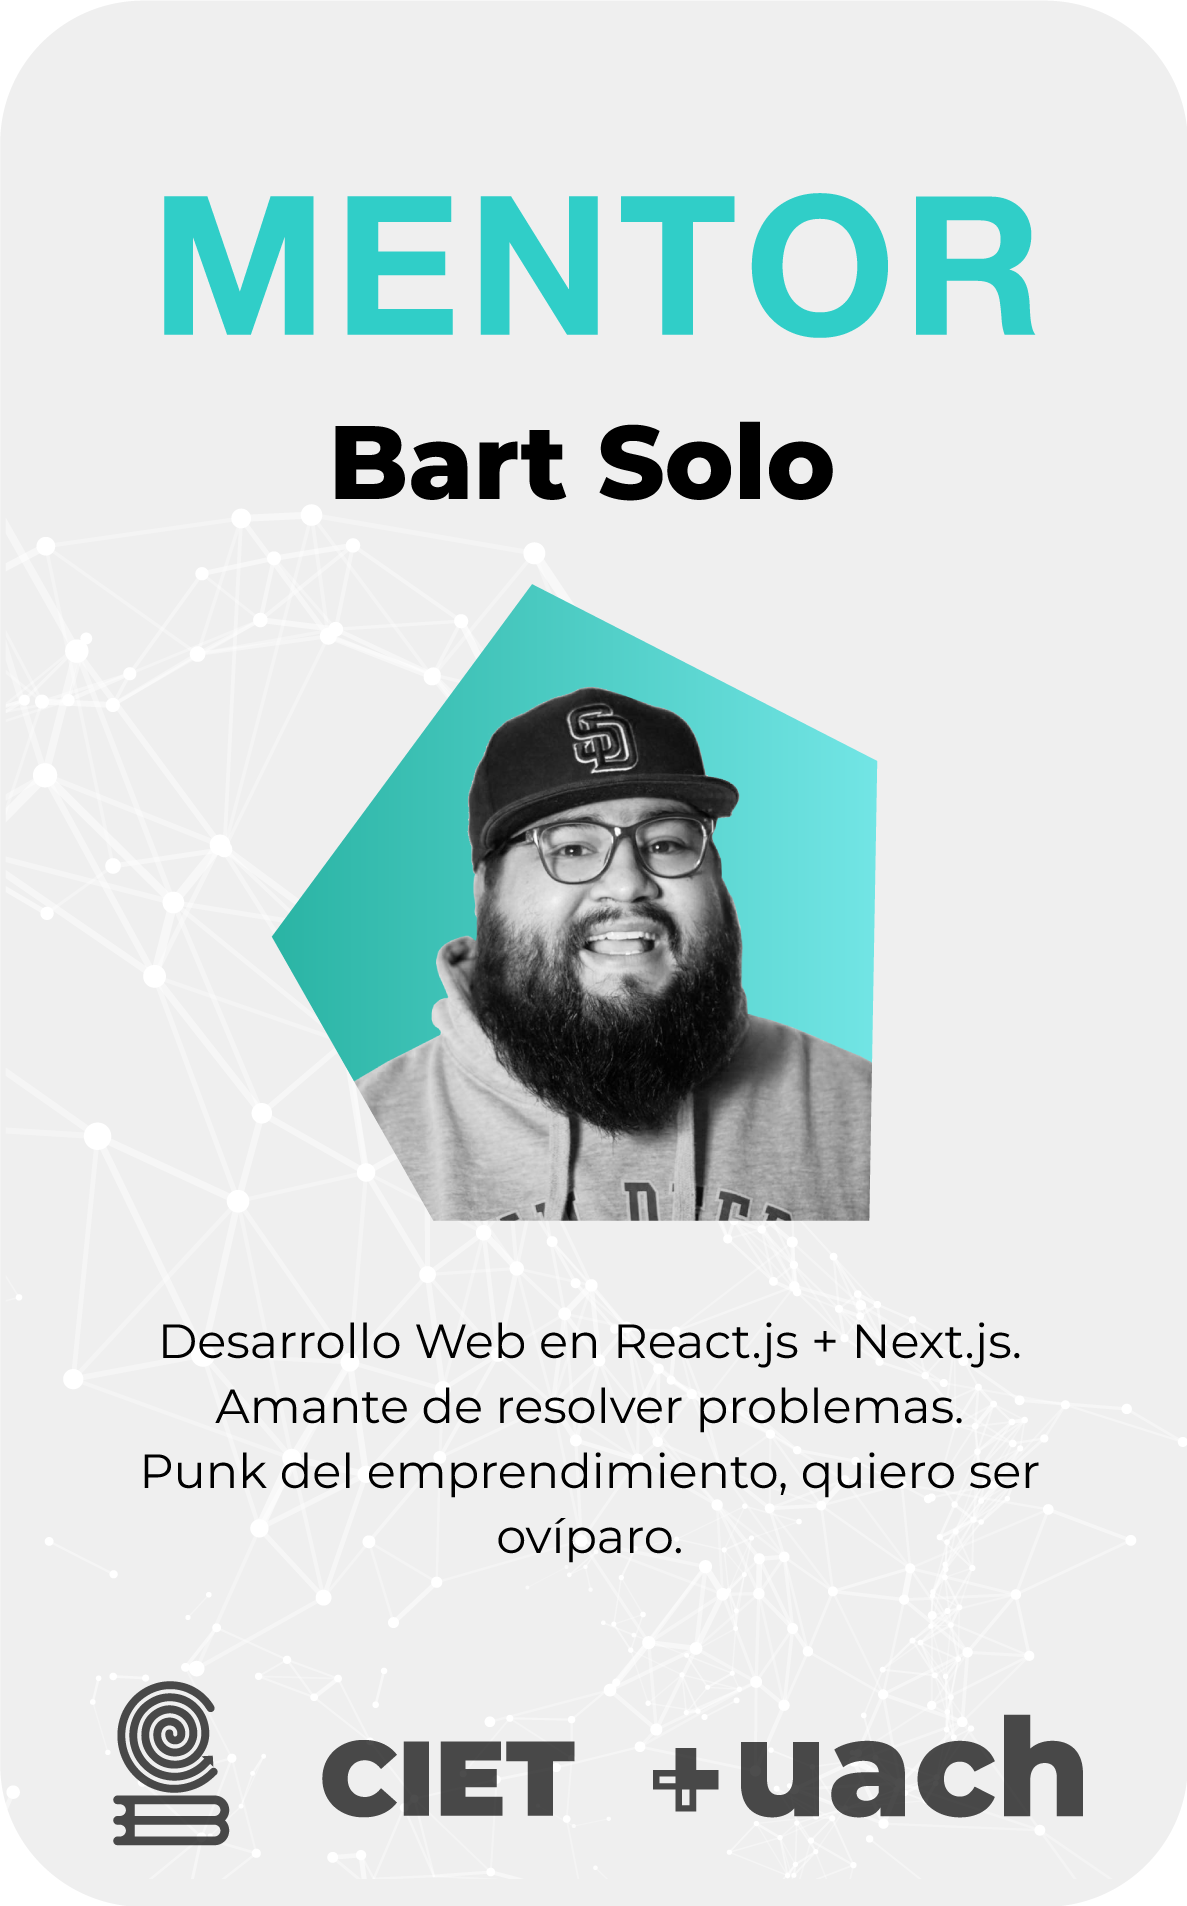
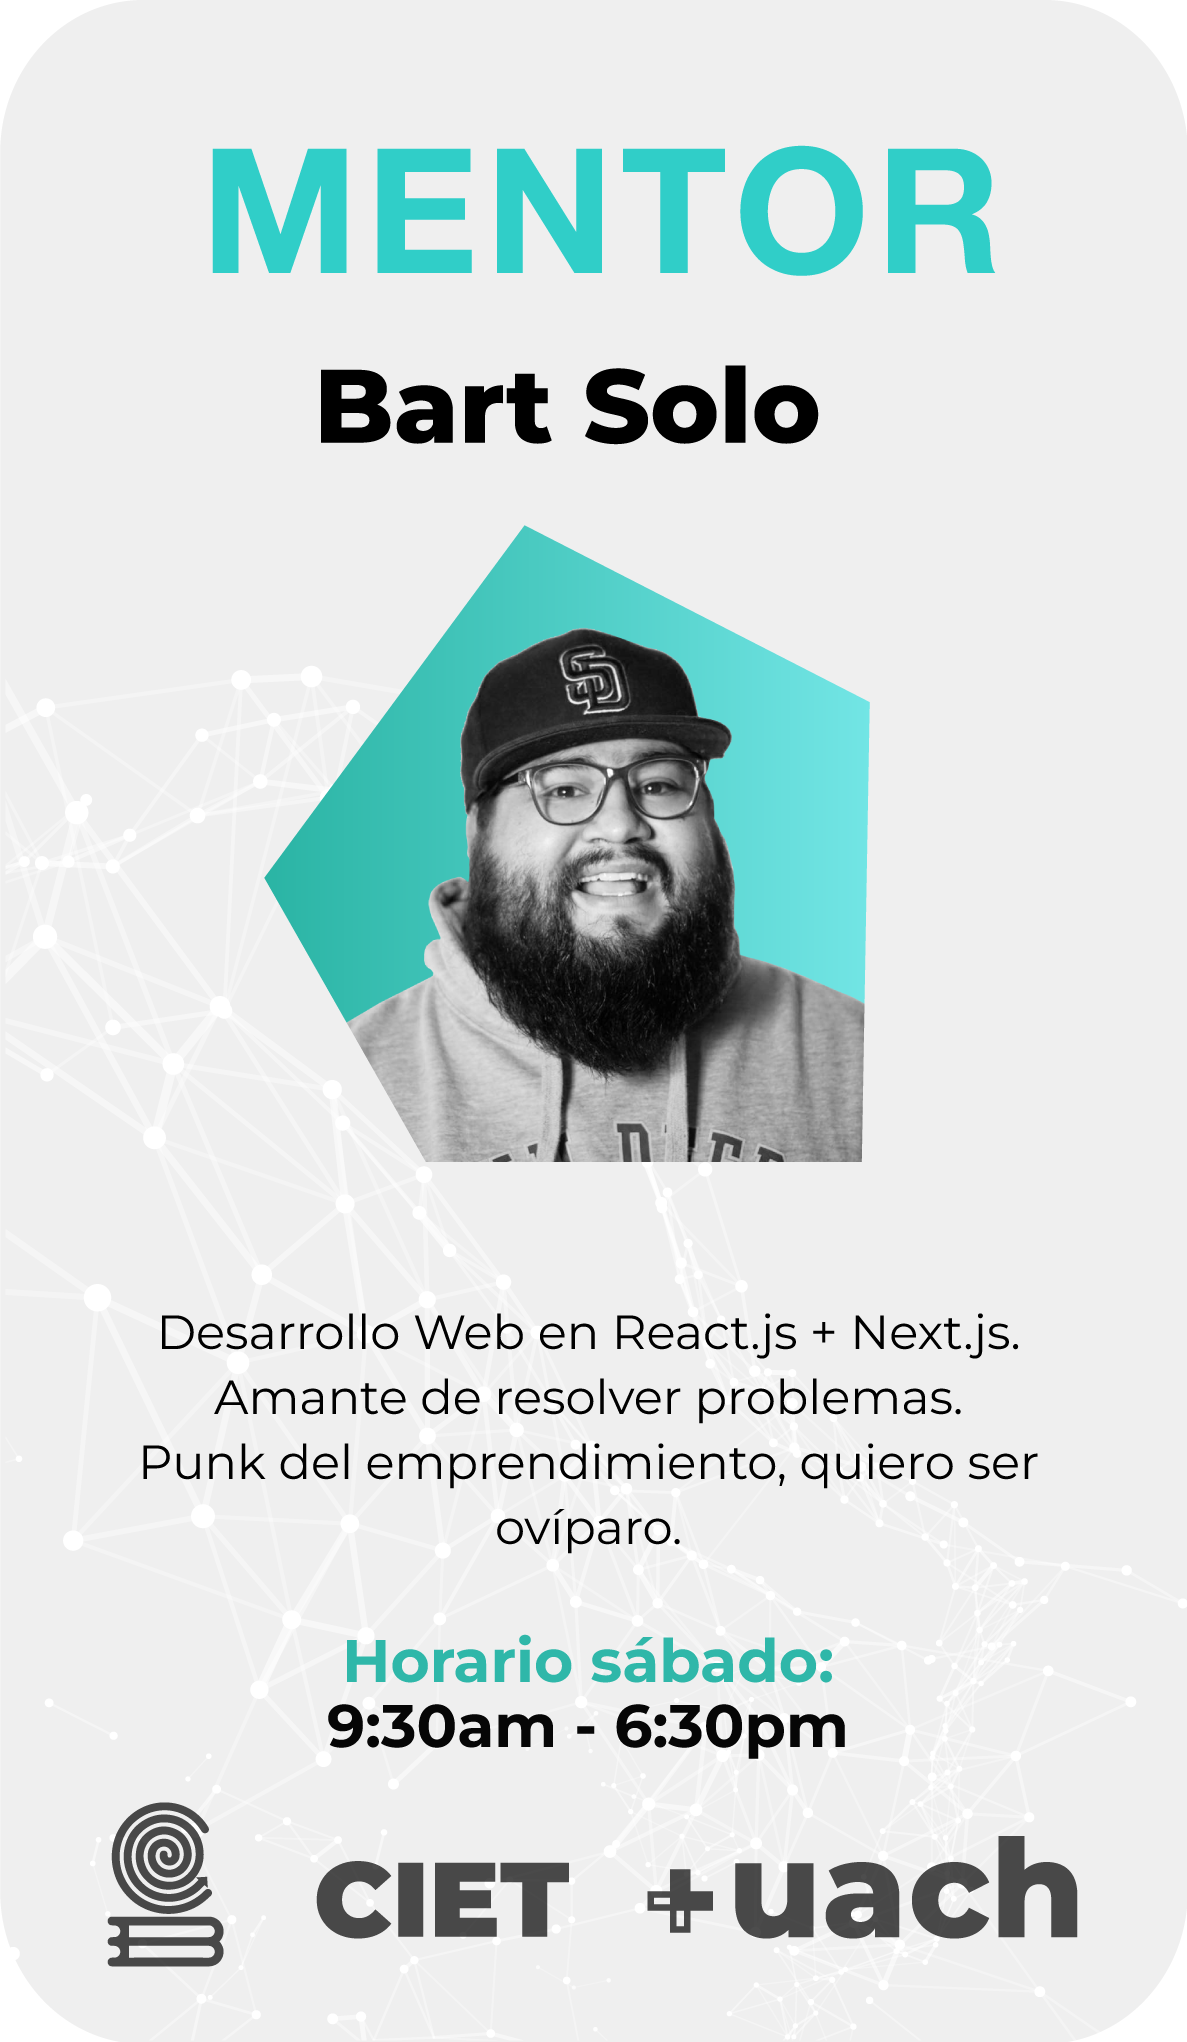
true mentor cards added

diff --git a/pages/index.js b/pages/index.js
@@ -26,11 +26,14 @@ export default function Example() {
               bonitas personas y comen muchos dulces 🤓
             </p>
           </div>
-          <div className="place-items-center space-y-4">
+          <div className="place-items-center space-y-4 lg:space-y-1 lg:scale-75 lg:grid lg:grid-cols-4">
             <img src="/mentors/tarjeta-andy.png"></img>
             <img src="/mentors/tarjeta-bart.png"></img>
             <img src="/mentors/tarjeta-cesar.png"></img>
             <img src="/mentors/tarjeta-meny.png"></img>
+            <img src="/mentors/tarjeta-andres.png"></img>
+            <img src="/mentors/tarjeta-karely.png"></img>
+            <img src="/mentors/tarjeta-sorely.png"></img>
           </div>
         </div>
       </div>
